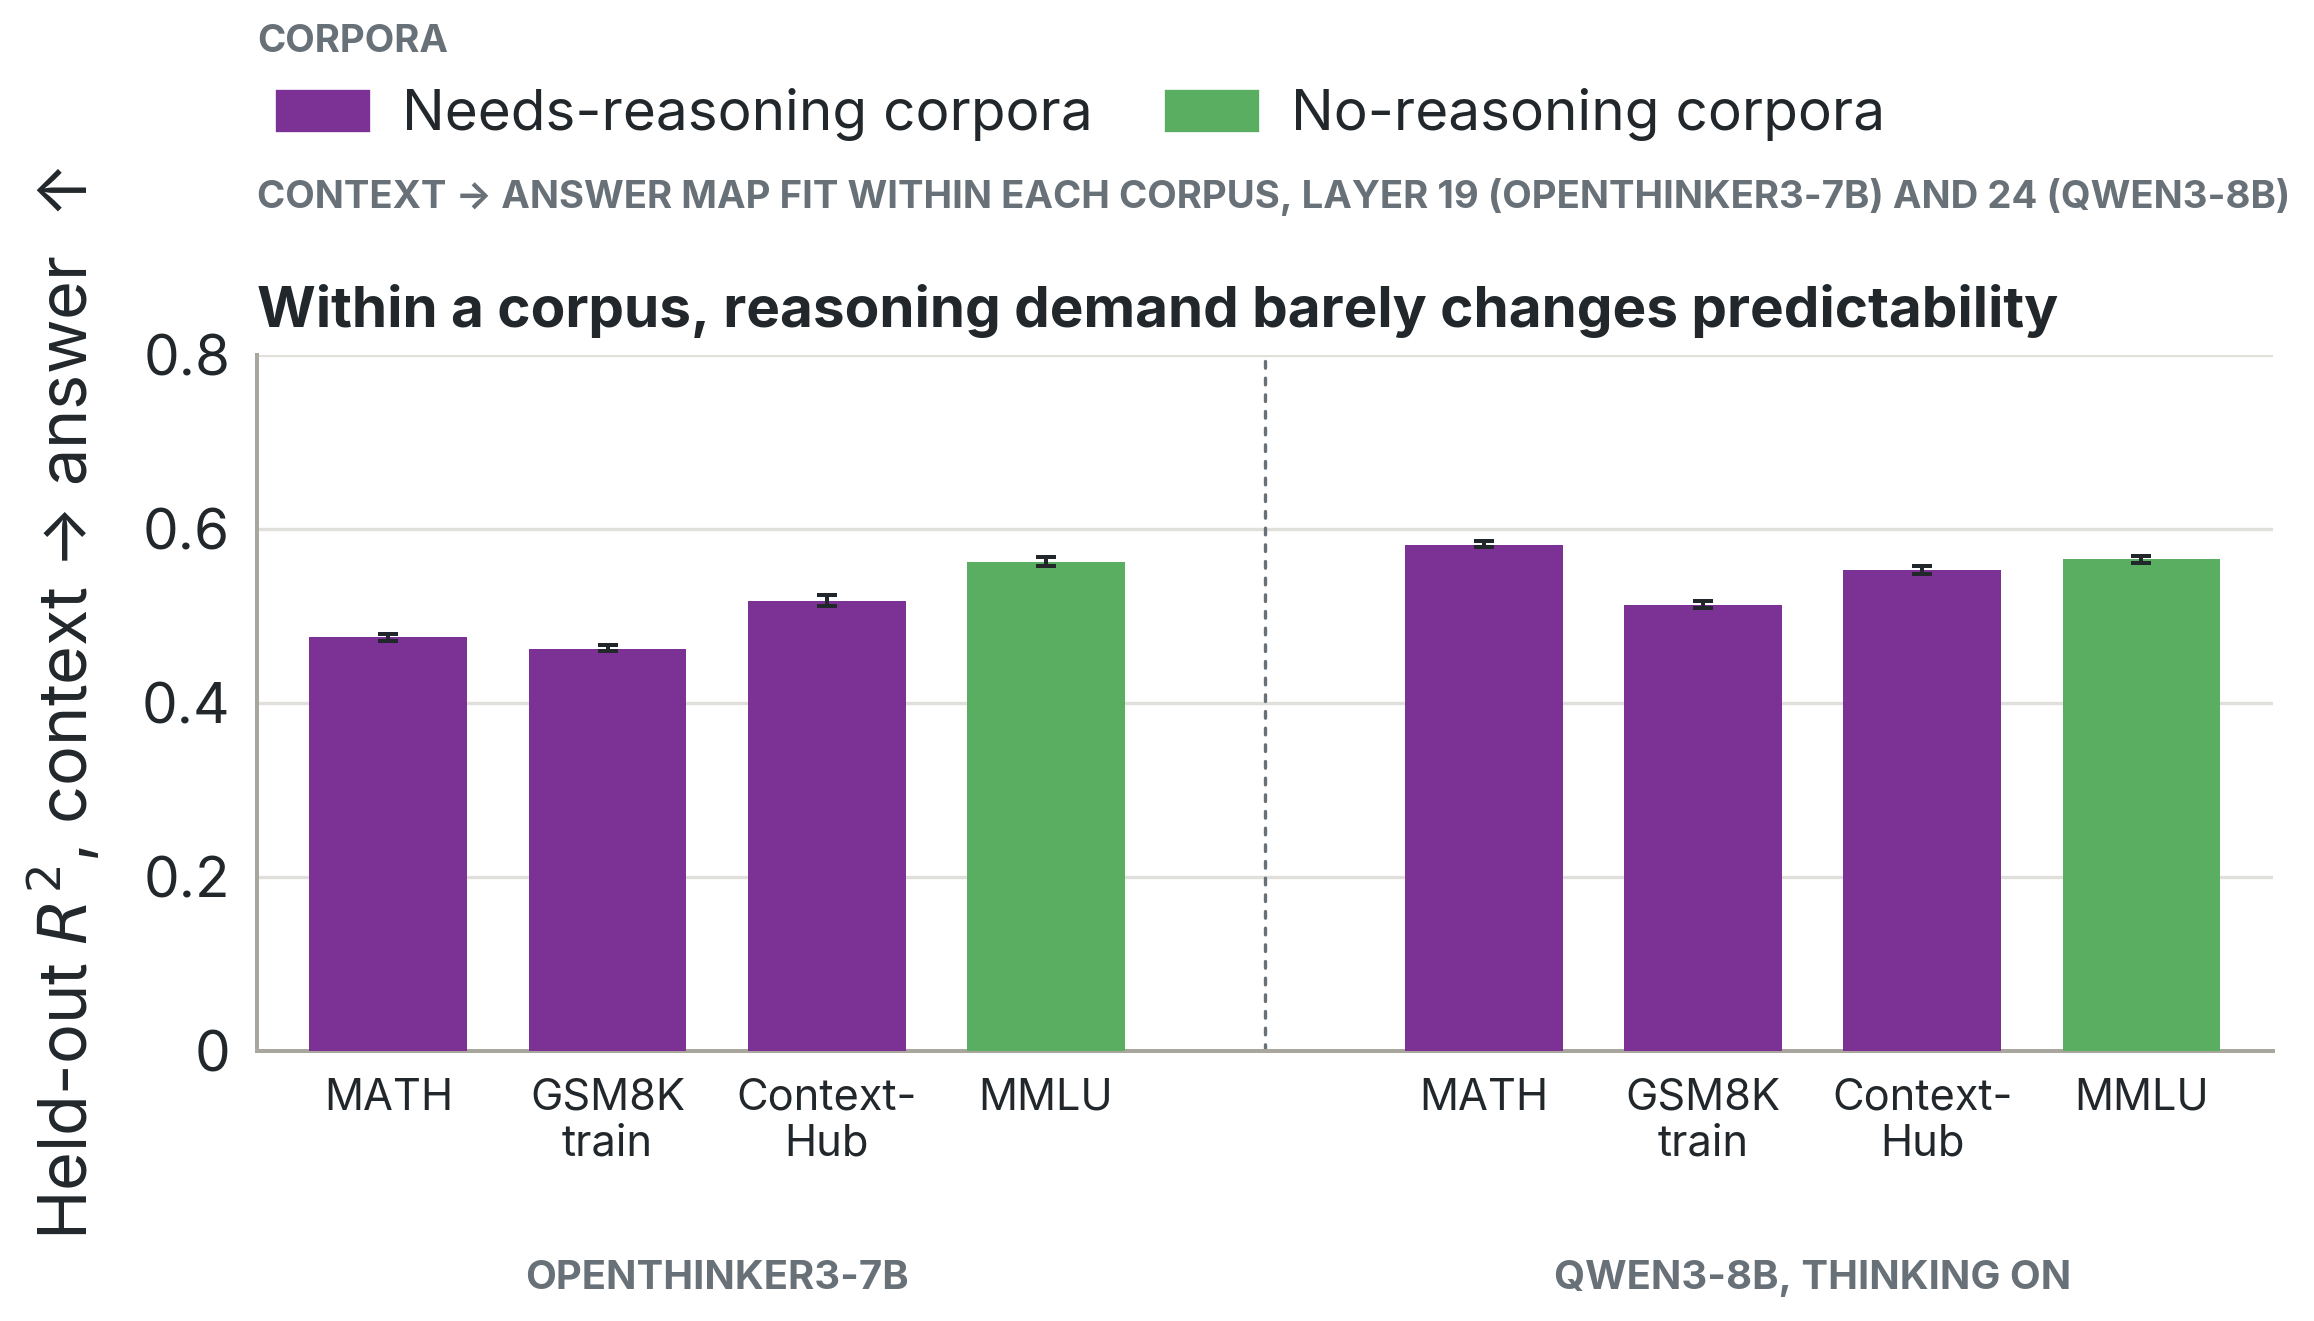
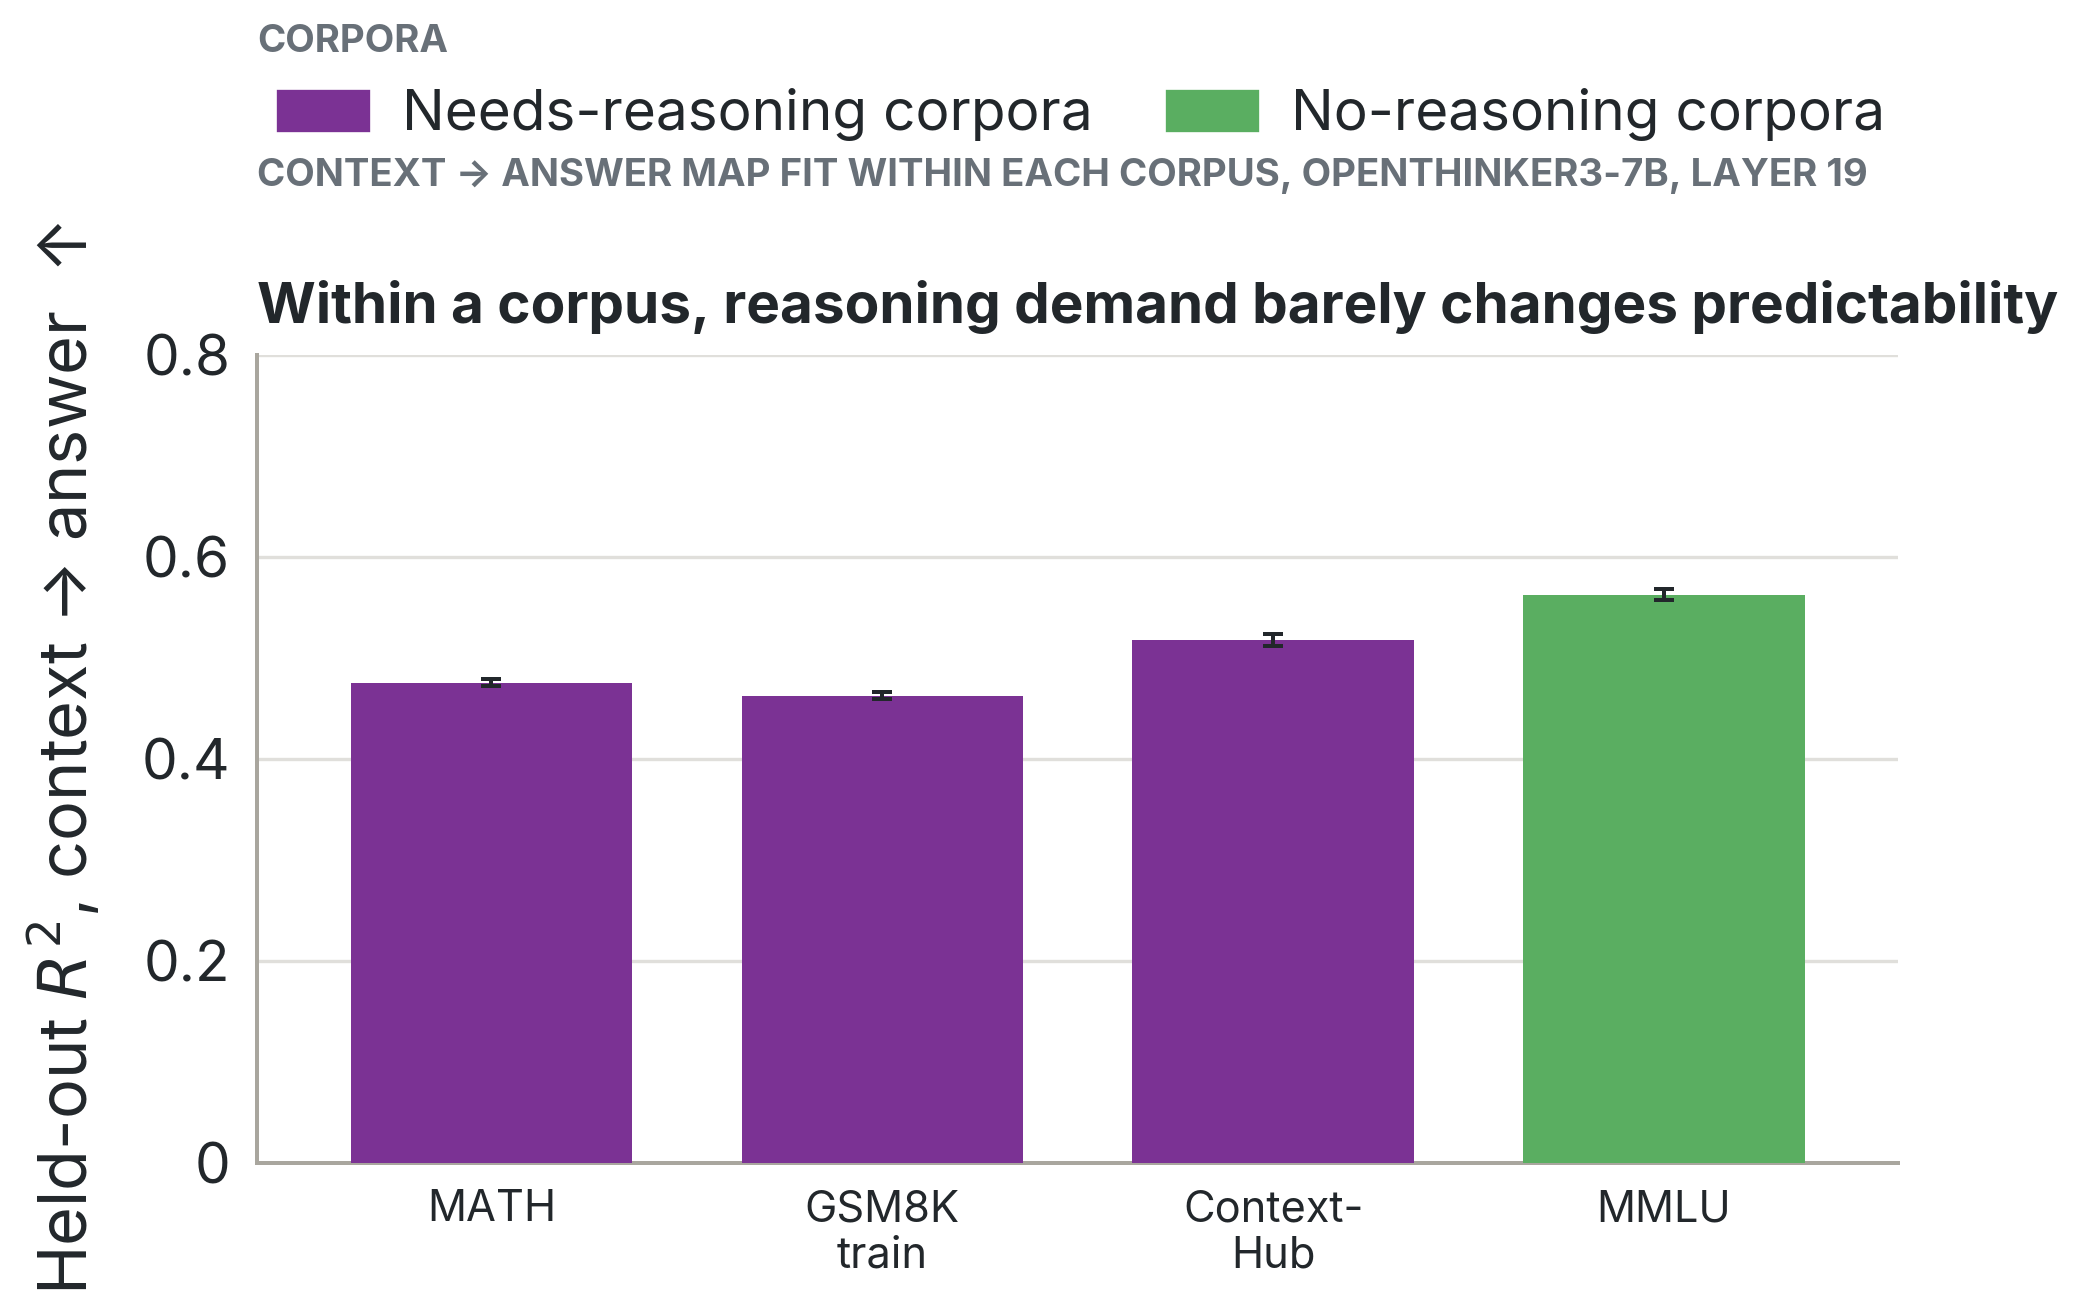
Strata figure: OpenThinker3-7B only by default (--arms selects models)
Generated with [Claude Code](https://claude.ai/code)
via [Happy](https://happy.engineering)

diff --git a/scripts/section45_cot_strata_figure.py b/scripts/section45_cot_strata_figure.py
@@ -51,7 +51,8 @@ CORPORA = [
     ("contexthub", "Context-\nHub", "does"),
     ("mmlu", "MMLU", "doesnt"),
 ]
-MODELS = [(1, "OpenThinker3-7B", 19), (3, "Qwen3-8B, thinking on", 24)]
+ALL_MODELS = [(1, "OpenThinker3-7B", 19), (3, "Qwen3-8B, thinking on", 24)]
+MODELS = list(ALL_MODELS)  # narrowed by --arms at run time
 GROUP_GAP = 1.0
 BAR_WIDTH = 0.72
 
@@ -98,8 +99,9 @@ def load_cells() -> dict[str, Any]:
 
 def make_figure(cells: dict[str, Any]) -> plt.Figure:
     set_c2a_style()
-    fig = plt.figure(figsize=(9.6, 5.8), constrained_layout=False)
-    grid = fig.add_gridspec(1, 1, left=0.11, right=0.985, top=0.74, bottom=0.24)
+    single = len(MODELS) == 1
+    fig = plt.figure(figsize=(8.0 if single else 9.6, 5.8), constrained_layout=False)
+    grid = fig.add_gridspec(1, 1, left=0.13 if single else 0.11, right=0.985, top=0.74, bottom=0.16 if single else 0.24)
     ax = fig.add_subplot(grid[0, 0])
     style_score_axis(ax, y_min=0.0, y_max=0.8, y_step=0.2)
     xs: list[float] = []
@@ -122,15 +124,18 @@ def make_figure(cells: dict[str, Any]) -> plt.Figure:
     ax.set_xticks(xs)
     ax.set_xticklabels(labels, fontsize=13, linespacing=1.15)
     sep = len(CORPORA) - 0.5 + GROUP_GAP / 2
-    ax.axvline(sep, color=MUTED, lw=1.0, ls=(0, (2, 3)), zorder=1)
-    for center, model in group_centers:
+    if not single:
+        ax.axvline(sep, color=MUTED, lw=1.0, ls=(0, (2, 3)), zorder=1)
+    for center, model in ([] if single else group_centers):
         ax.text(center, -0.30, model.upper(), transform=ax.get_xaxis_transform(), ha="center", va="top", fontsize=12, fontweight=700, color=MUTED)
     ax.set_ylabel("Held-out $R^2$, context → answer  ↑", labelpad=12)
     ax.set_title("Within a corpus, reasoning demand barely changes predictability", loc="left", y=1.04, pad=0, fontweight=650, fontsize=17)
-    ax.text(0.0, 1.20, "CONTEXT → ANSWER MAP FIT WITHIN EACH CORPUS, LAYER 19 (OPENTHINKER3-7B) AND 24 (QWEN3-8B)", transform=ax.transAxes, fontsize=11.5, fontweight=700, color=MUTED, va="bottom", ha="left")
+    kicker = "CONTEXT → ANSWER MAP FIT WITHIN EACH CORPUS, OPENTHINKER3-7B, LAYER 19" if single else "CONTEXT → ANSWER MAP FIT WITHIN EACH CORPUS, LAYER 19 (OPENTHINKER3-7B) AND 24 (QWEN3-8B)"
+    ax.text(0.0, 1.20, kicker, transform=ax.transAxes, fontsize=11.5, fontweight=700, color=MUTED, va="bottom", ha="left")
     handles = [Patch(facecolor=STRATUM_COLOR[s], edgecolor=STRATUM_COLOR[s], label=STRATUM_LABEL[s]) for s in ("does", "doesnt")]
-    fig.text(0.11, 0.965, "CORPORA", color=MUTED, fontsize=11.5, fontweight=750, ha="left", va="center")
-    fig.legend(handles=handles, loc="upper left", bbox_to_anchor=(0.109, 0.948), ncol=2, frameon=False, columnspacing=1.3, handlelength=1.6, handletextpad=0.6, borderaxespad=0)
+    x0 = 0.13 if single else 0.11
+    fig.text(x0, 0.965, "CORPORA", color=MUTED, fontsize=11.5, fontweight=750, ha="left", va="center")
+    fig.legend(handles=handles, loc="upper left", bbox_to_anchor=(x0 - 0.001, 0.948), ncol=2, frameon=False, columnspacing=1.3, handlelength=1.6, handletextpad=0.6, borderaxespad=0)
     return fig
 
 
@@ -147,7 +152,9 @@ def main(argv: list[str] | None = None) -> int:
     parser = argparse.ArgumentParser(description=__doc__, formatter_class=argparse.RawDescriptionHelpFormatter)
     parser.add_argument("--out-dir", type=Path, default=DEFAULT_OUT)
     parser.add_argument("--stem", default=DEFAULT_STEM)
+    parser.add_argument("--arms", type=int, nargs="*", default=[1], help="arms to plot (default: OpenThinker3-7B only)")
     args = parser.parse_args(argv)
+    MODELS[:] = [m for m in ALL_MODELS if m[0] in args.arms]
     cells = load_cells()
     font = set_c2a_style()
     fig = make_figure(cells)
